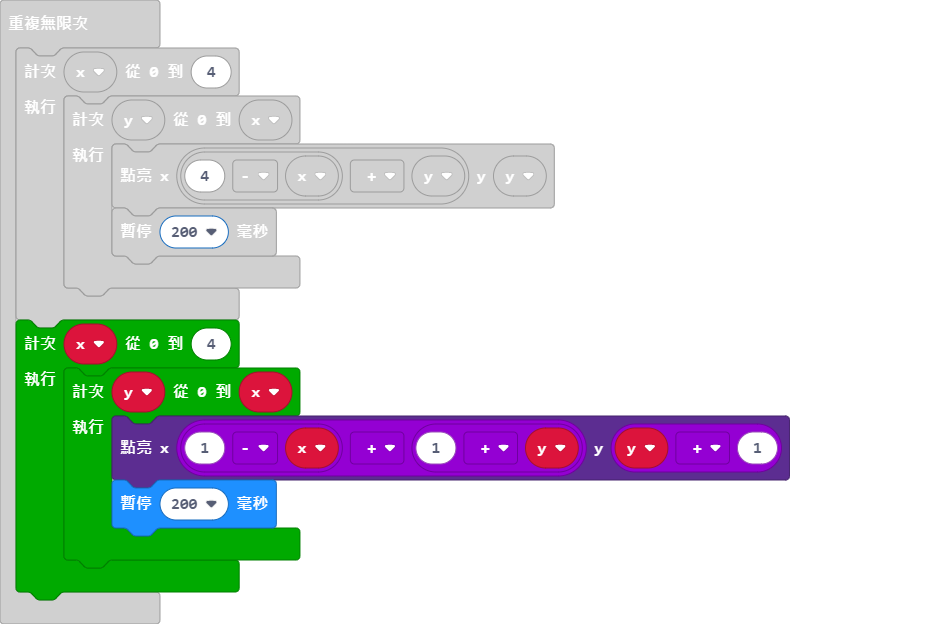
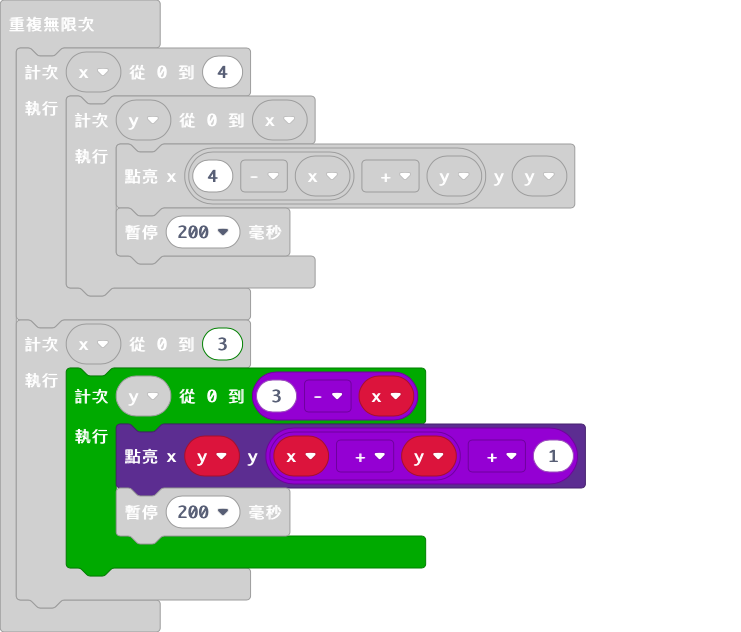
end

Changed region(s): [[0.0, 0.0, 0.8381, 1.0]]

diff --git a/main.ts b/main.ts
@@ -5,9 +5,9 @@ basic.forever(function () {
             basic.pause(200)
         }
     }
-    for (let x = 0; x <= 4; x++) {
-        for (let y = 0; y <= x; y++) {
-            led.plot(1 - x + (1 + y), y + 1)
+    for (let x = 0; x <= 3; x++) {
+        for (let y = 0; y <= 3 - x; y++) {
+            led.plot(y, x + y + 1)
             basic.pause(200)
         }
     }
